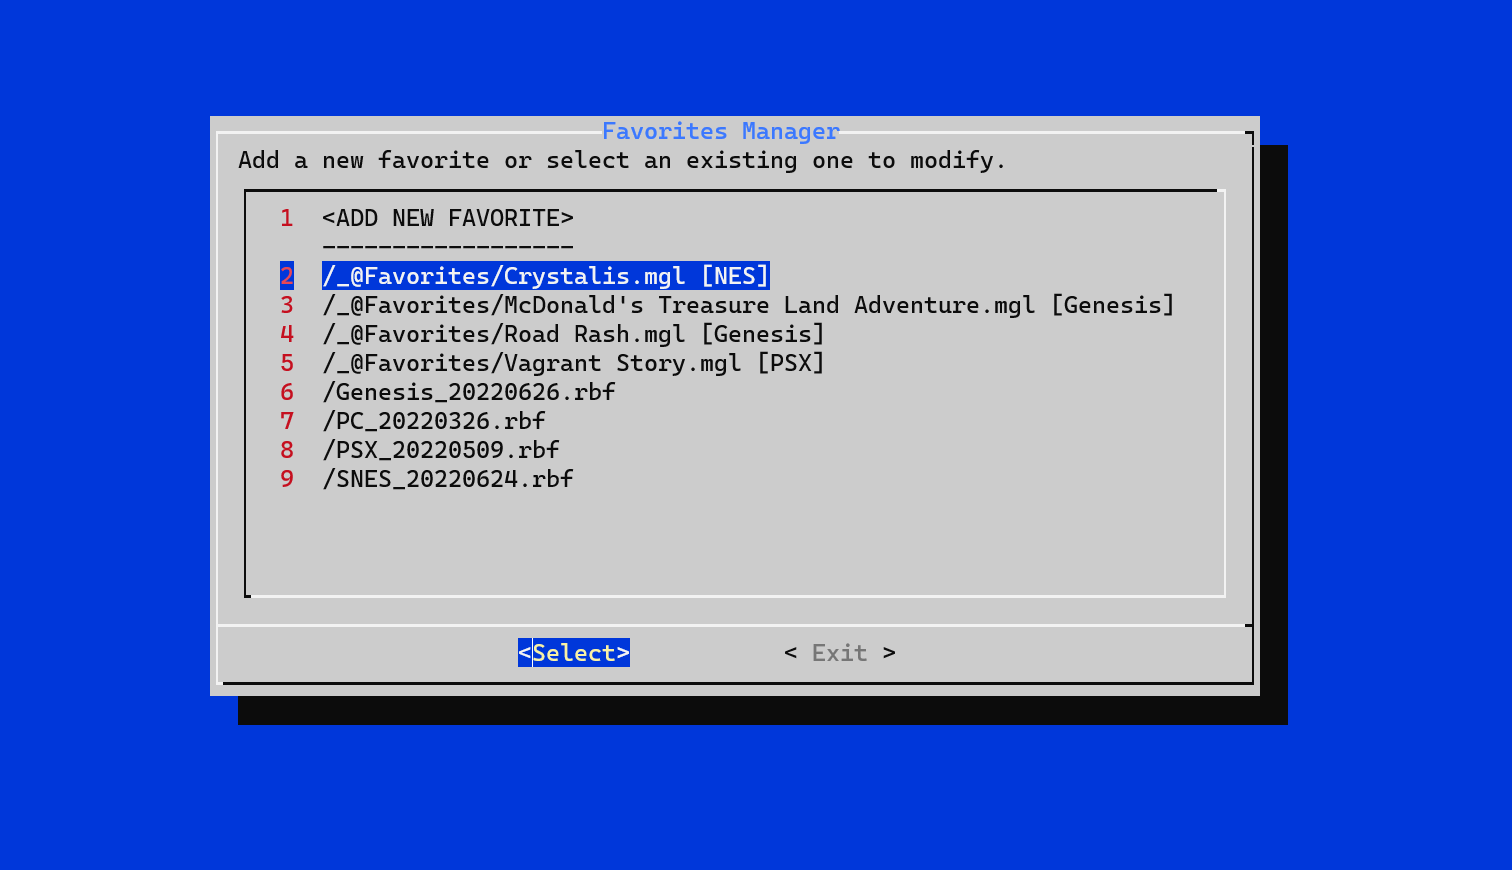
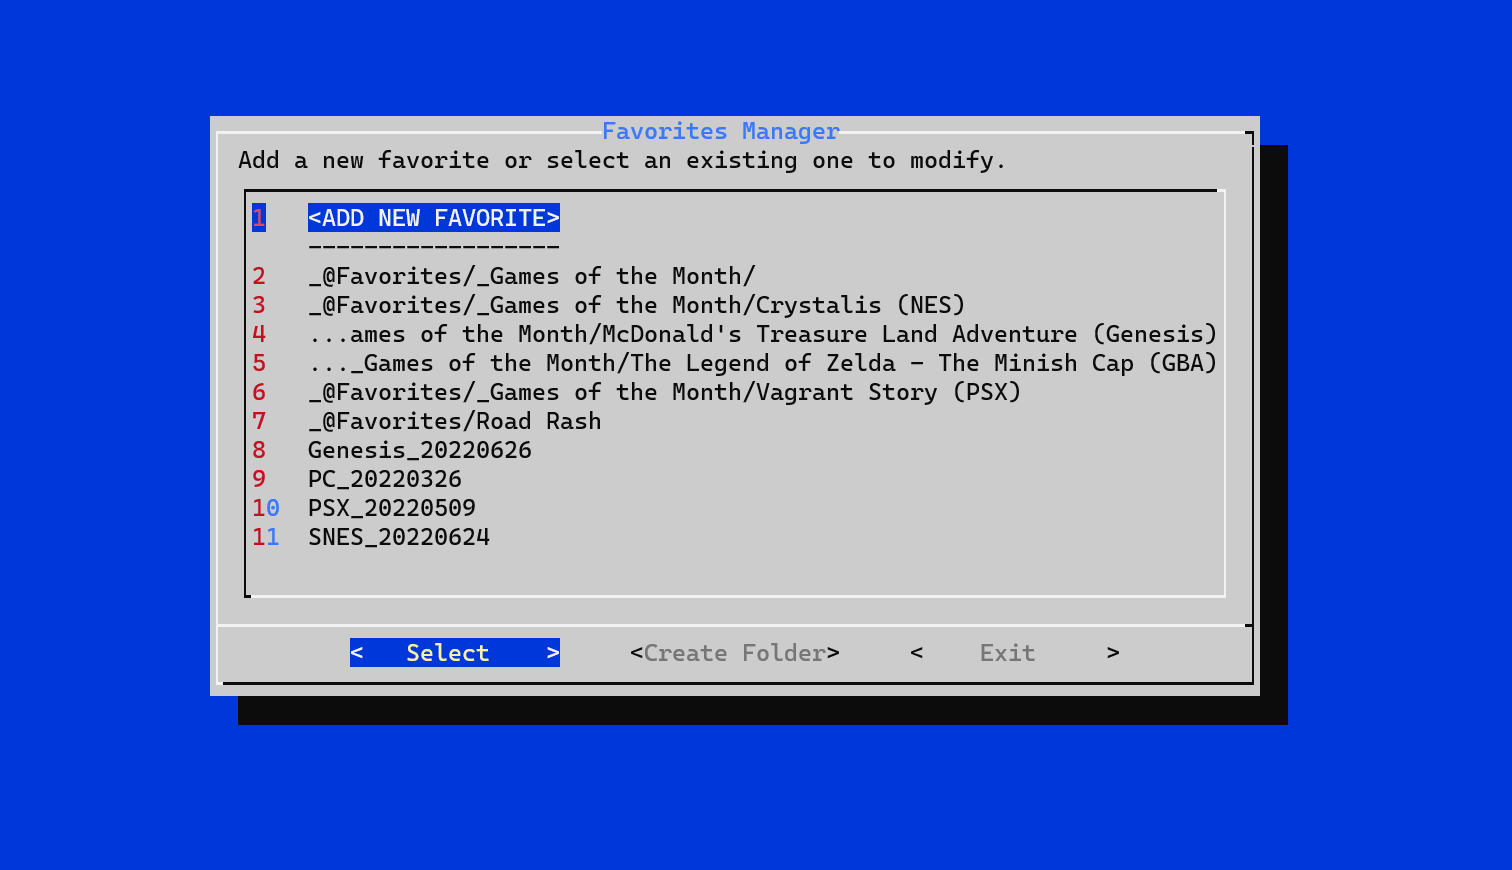
Update readme and downloader

Changed region(s): [[0.1554, 0.2172, 0.8082, 0.6517], [0.2176, 0.7138, 0.5906, 0.7759], [0.6528, 0.7448, 0.6839, 0.7759]]

diff --git a/README.md b/README.md
@@ -12,7 +12,7 @@ This script works well with the [Games Menu](https://github.com/wizzomafizzo/MiS
 * Automatically generates .mgl files to launch games directly from the menu.
 * Supports selecting games from inside .zip files.
 * Automatically fixes broken shortcuts when a core has been updated.
-* Edit and remove existing favorite entries from the GUI.
+* Edit and remove existing favorite entries and folders from the GUI.
 * Works without a keyboard.
 
 ## Installation
@@ -35,10 +35,10 @@ Launch `favorites` from the Scripts menu and follow the prompts.
 
 ## FAQ
 
+* *Can I rename the @Favorites folder?*
+
+  Yes, go for it. It's just the default. The only restriction on the name is it needs to include "fav" somewhere and start with an underscore. `_#Favorites`, `_@Favourites` and `_my cool favs` are all valid names and will be picked up by the script. You can also create multiple favorite directories following this convention.
+
 * *Why can't I add games for a certain system?*
 
   Support for direct game links depend on a core's own support for .mgl files. Submit a feature request with the core's author if you want support added. Report an issue here if you know the core already has .mgl support, and it can be added to work with this script.
-
-* *Can I add subfolders to the @Favorites menu?*
-
-  Yes, but you have to set them up yourself. Create any number or depth of folders yourself in the @Favorites folder and the script will automatically pick up on them when it's time to select where a favorite will go. Make sure every folder you create has a `_` in front of the name, or else the MiSTer menu won't see it. There are currently no plans to add support for managing subfolders from the Favorites GUI.
